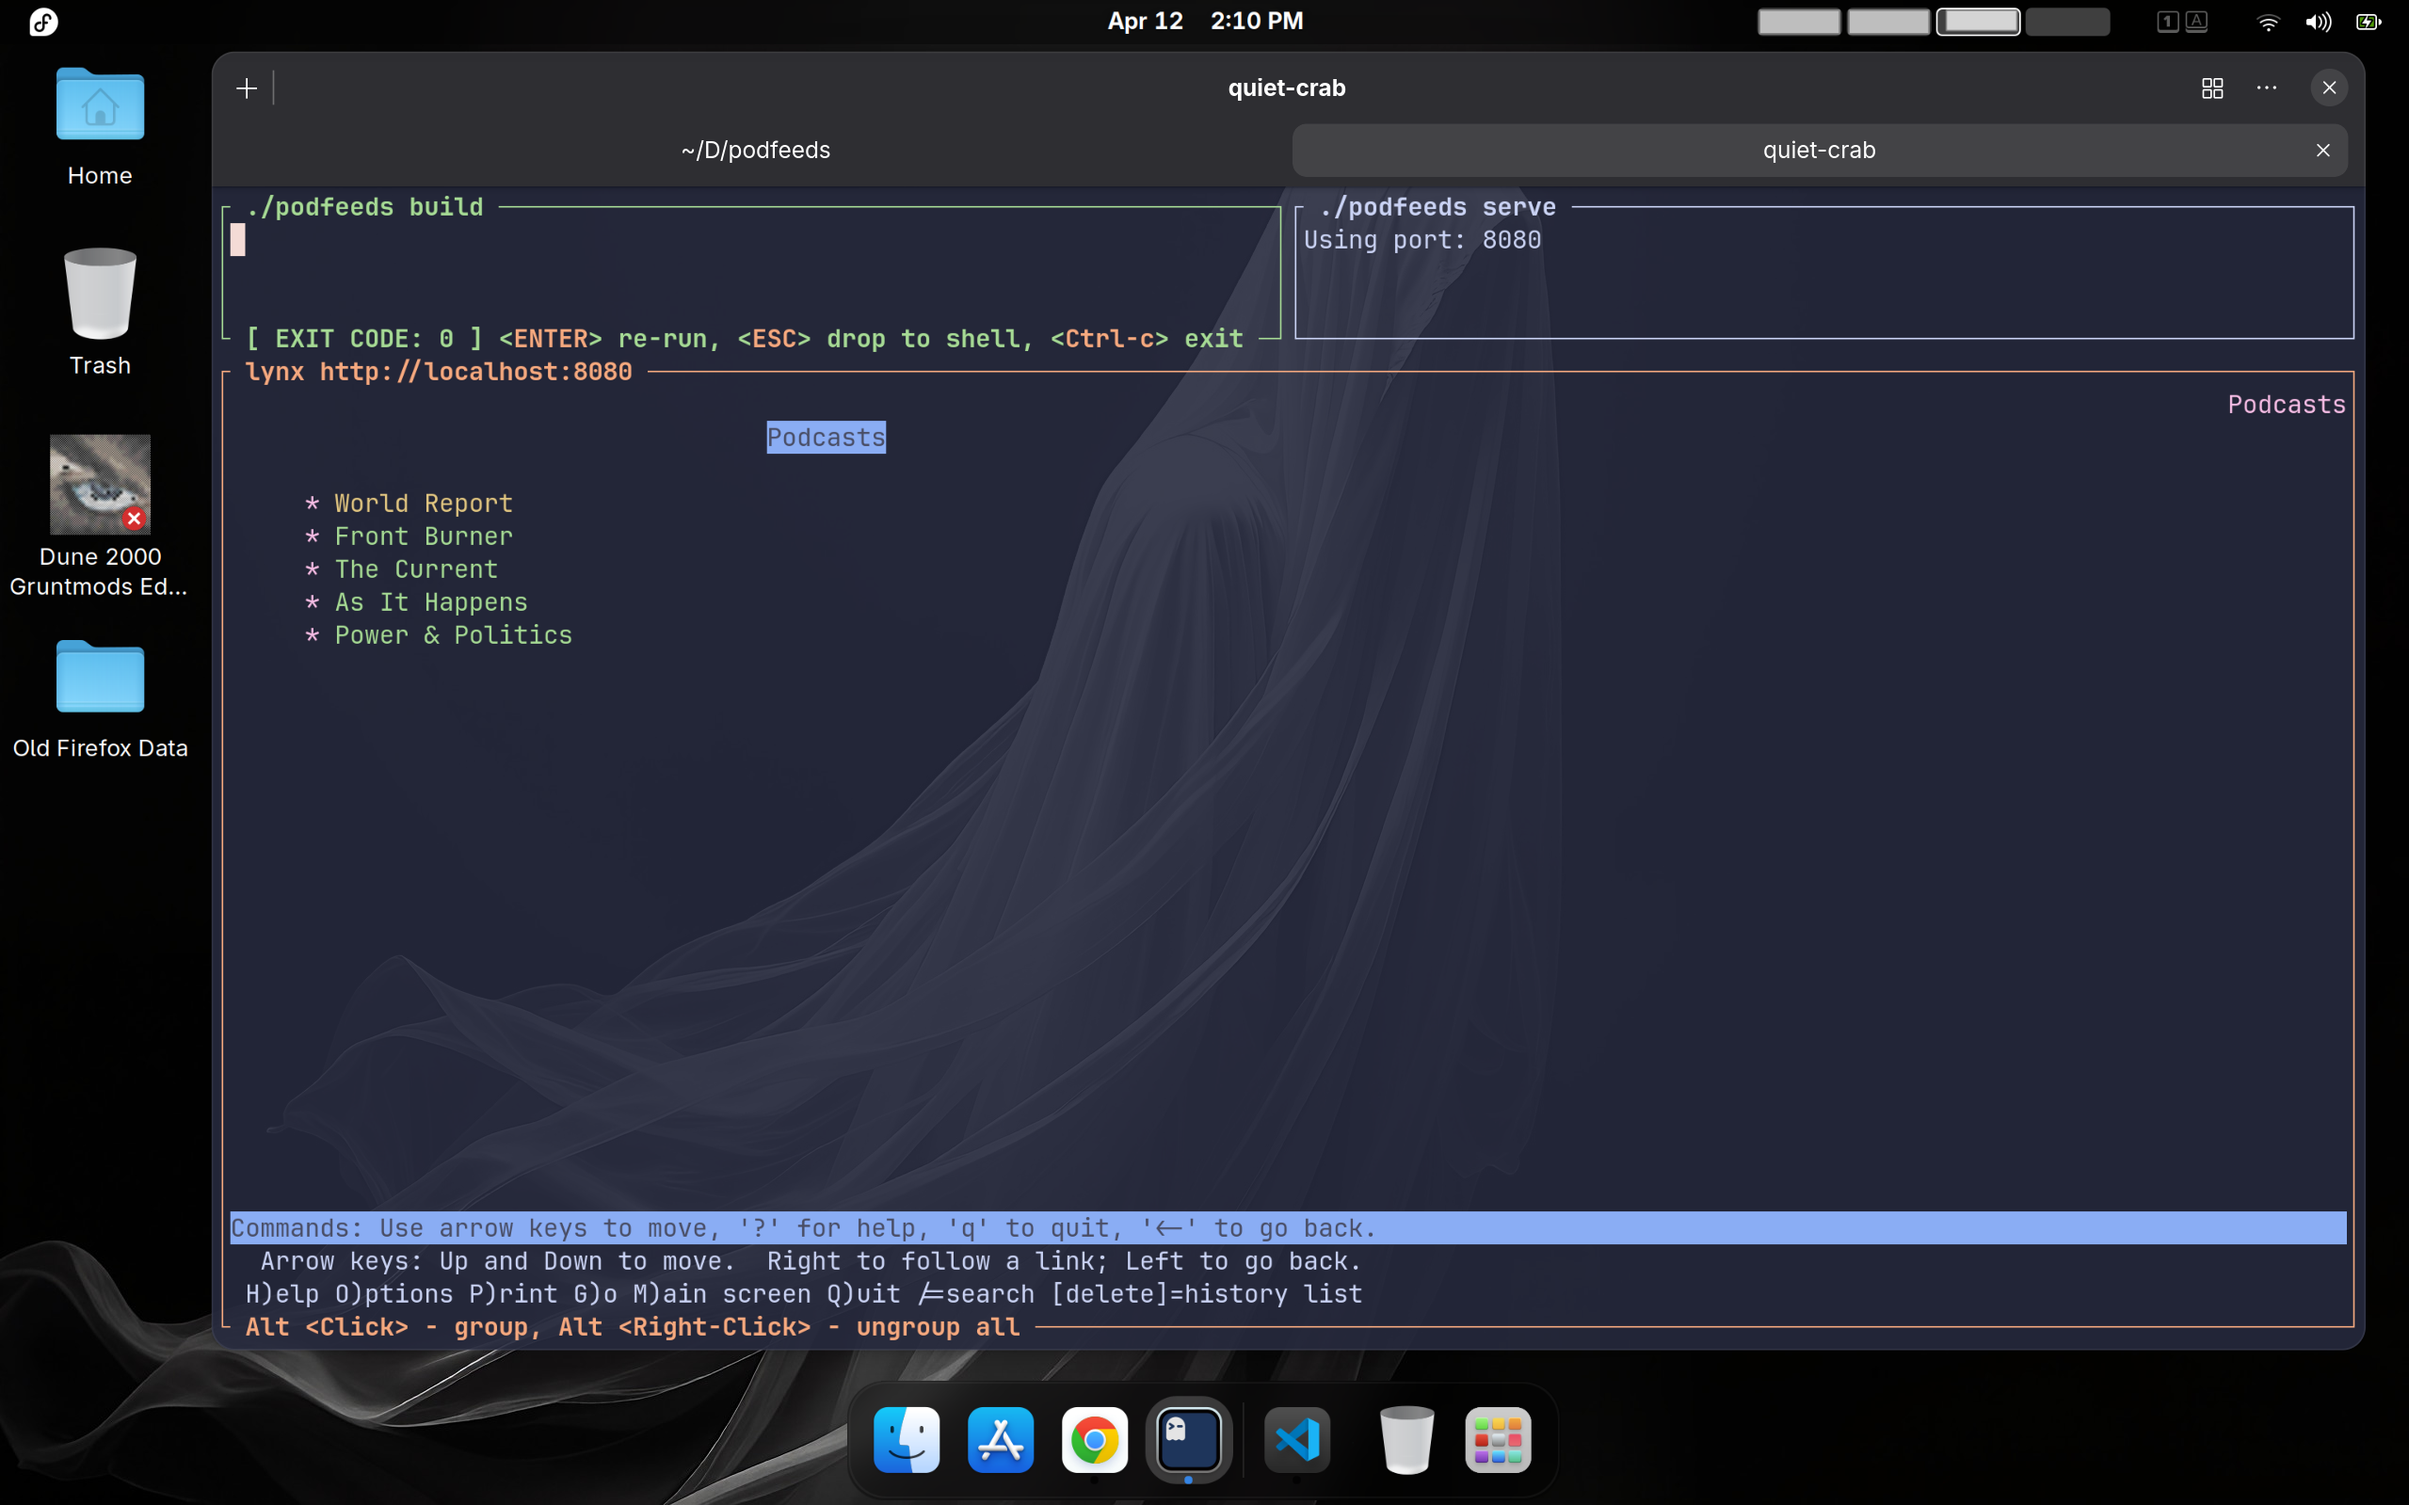
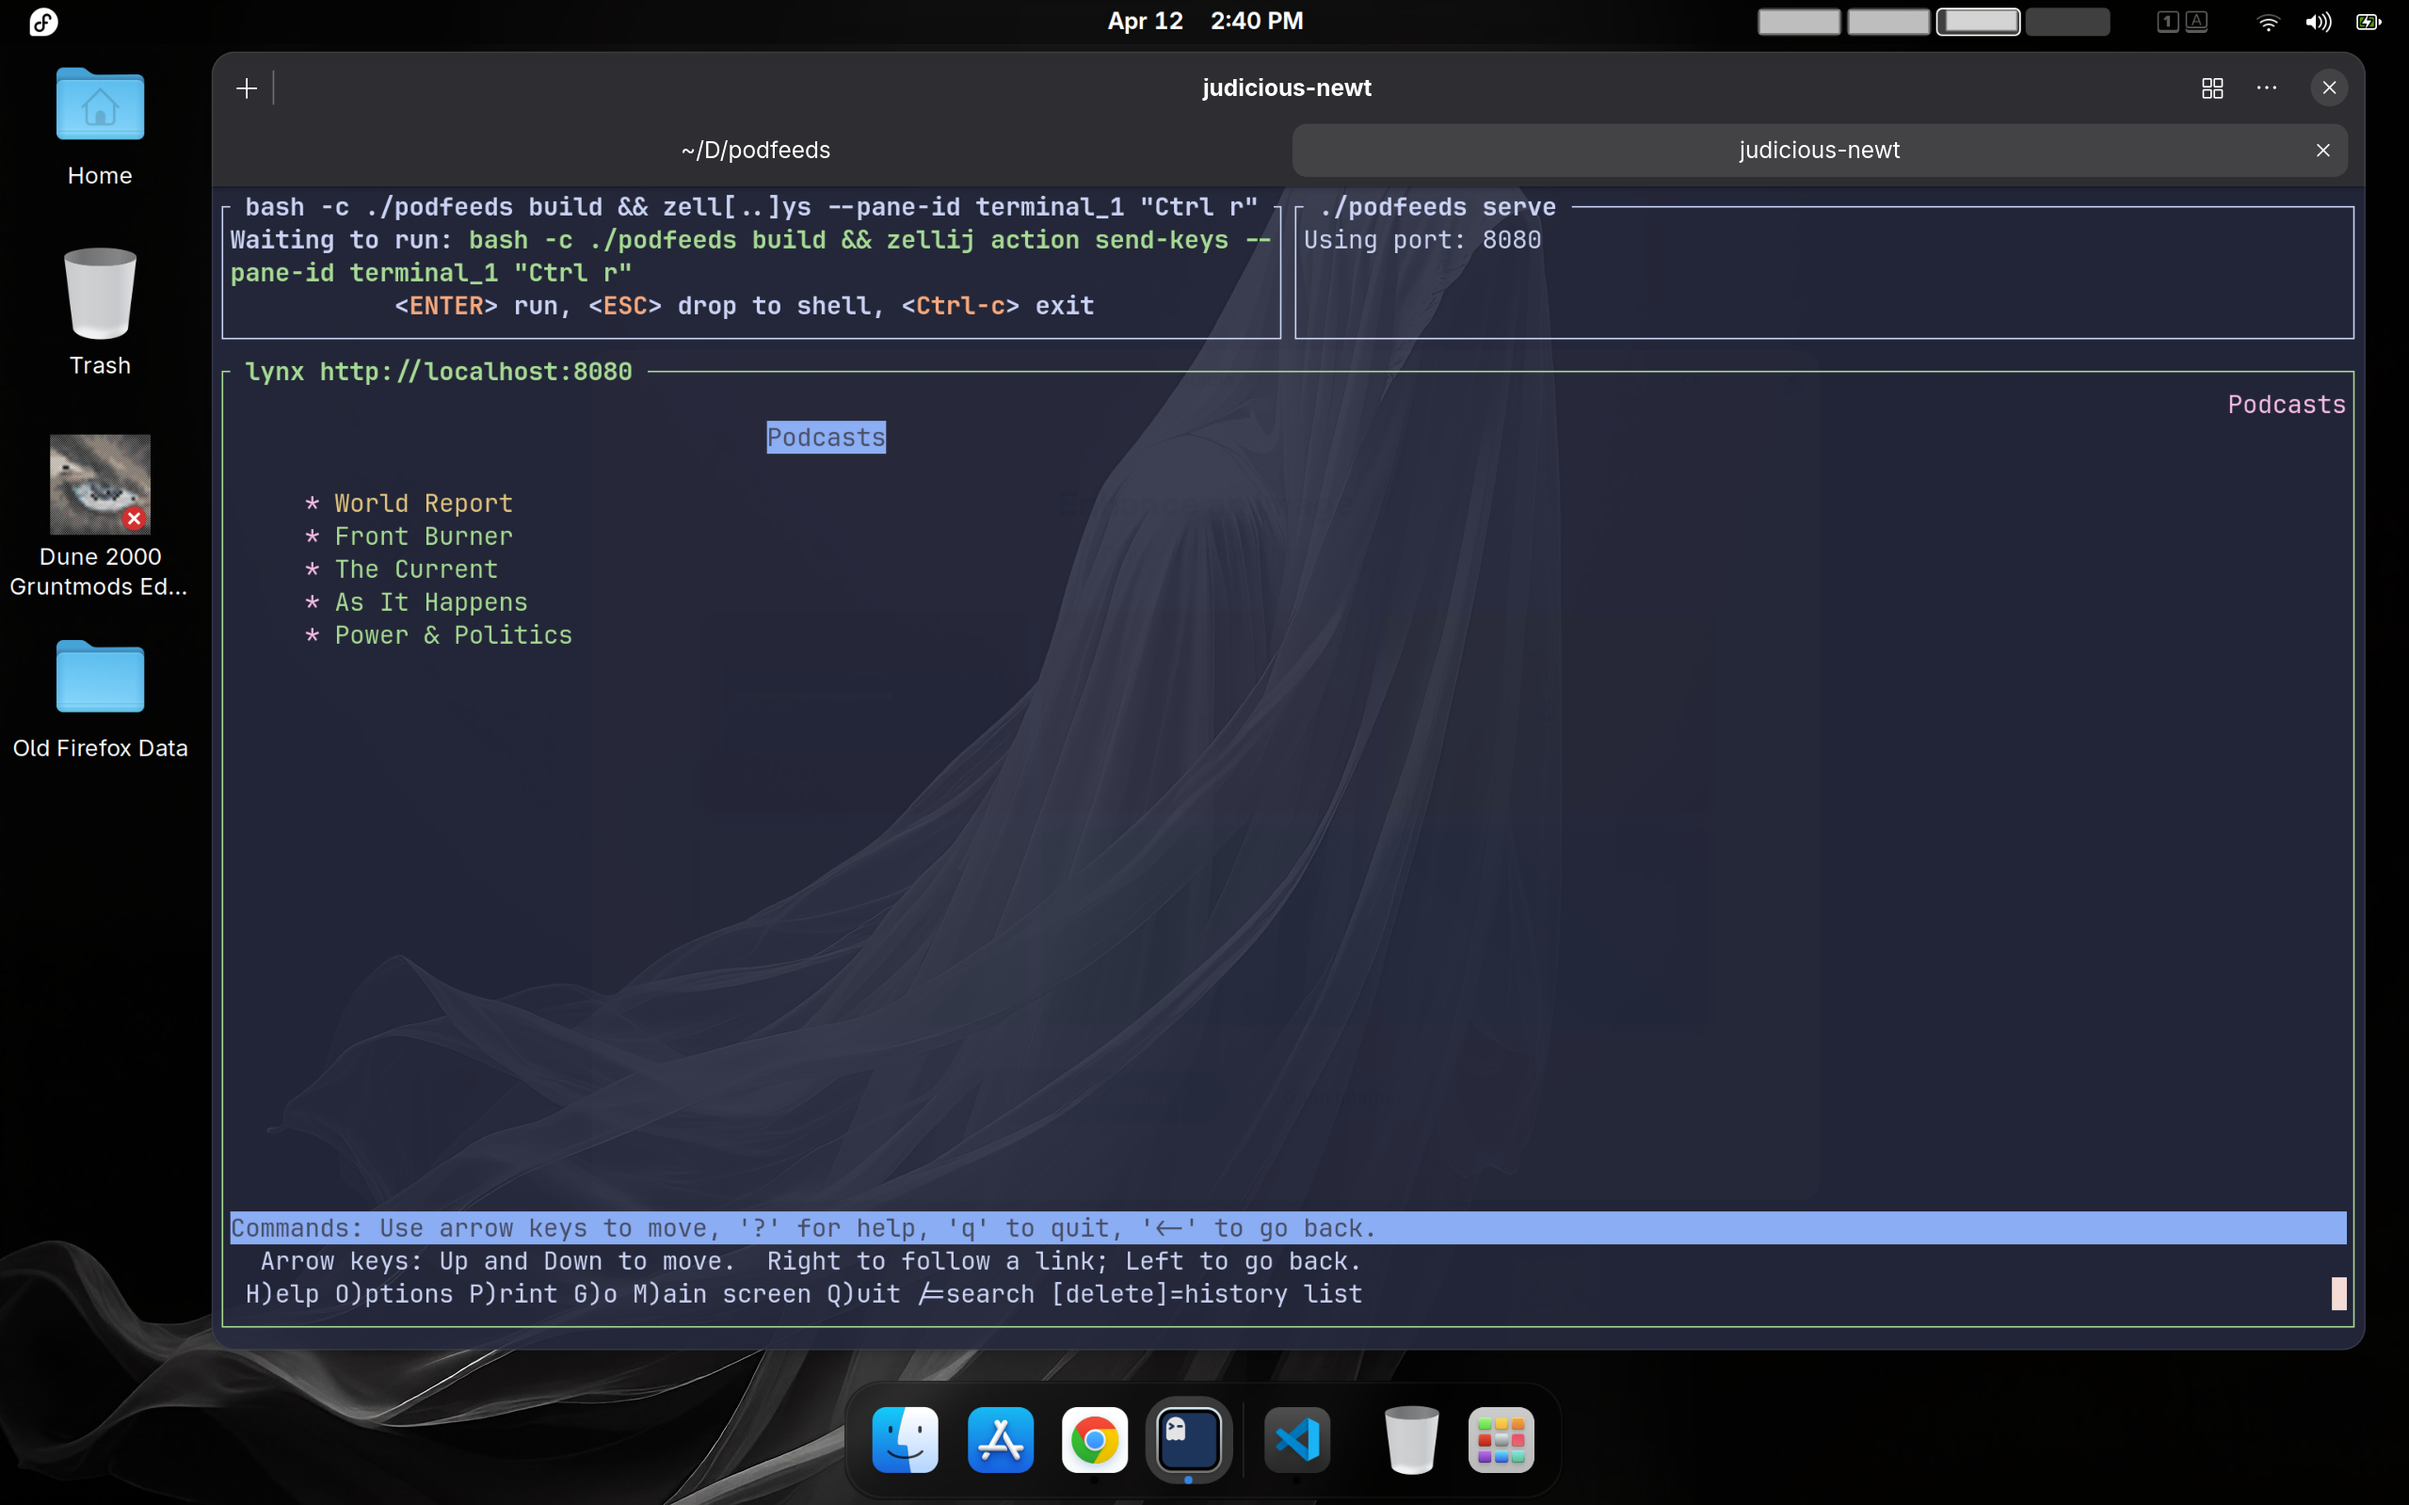
More work on Zellij

diff --git a/README.md b/README.md
@@ -113,20 +113,18 @@ the refresh key sequence to the Lynx pane. Lynx is started in ~/Music/podcasts, 
 
 ### Zellij
 
-Zellij works too.
-
 ![zellij session](images/zellij_layout.png)
 
-Refreshing is ENTER twice in the top left pane, followed by Ctrl+r in the bottom pane. Exiting Zellij (Ctrl+q) tears everything down.
-
-This is accompished with the following layout:
+Works the same as above. This is accompished with the following layout:
 
     layout {
         pane split_direction="horizontal" {
             pane split_direction="vertical" {
                 pane {
-                    command "./podfeeds"
-                    args "build"
+                    // https://www.reddit.com/r/zellij/comments/129mftu/in_zellij_it_it_possible_to_start_multiple/
+                    // I determined in a previous session that terminal_1 is the id of the Lynx pane.
+                    command "bash"
+                    args "-c" "./podfeeds build && zellij action send-keys --pane-id terminal_1 \"Ctrl r\""
                     cwd "~/Documents/podfeeds"
                     start_suspended true
                 }
@@ -141,6 +139,8 @@ This is accompished with the following layout:
         pane command="lynx" {
             args "http://localhost:8080"
             cwd "~/Music/podcasts"
+            // Not safe to start the browser and the server at the exact same time
+            start_suspended true
+            focus true
         }
     }
-
